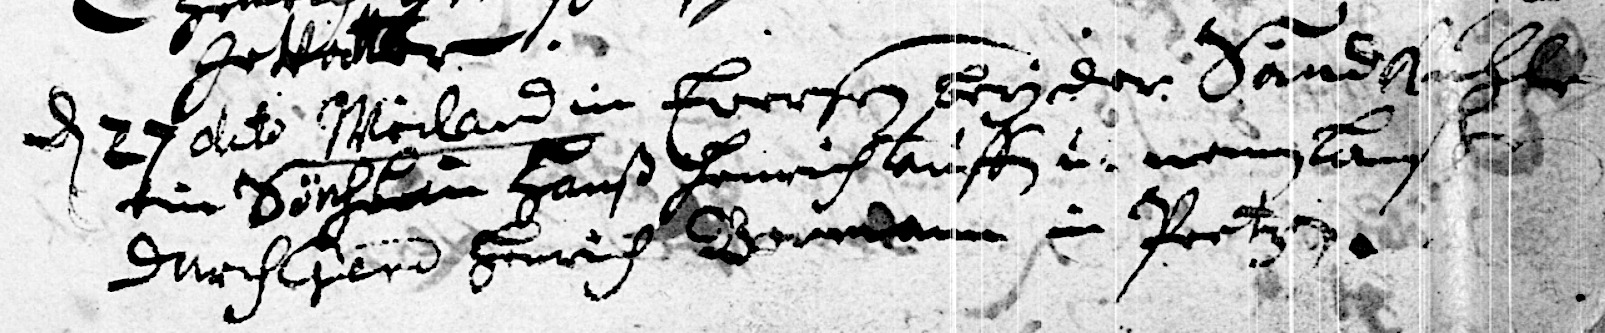
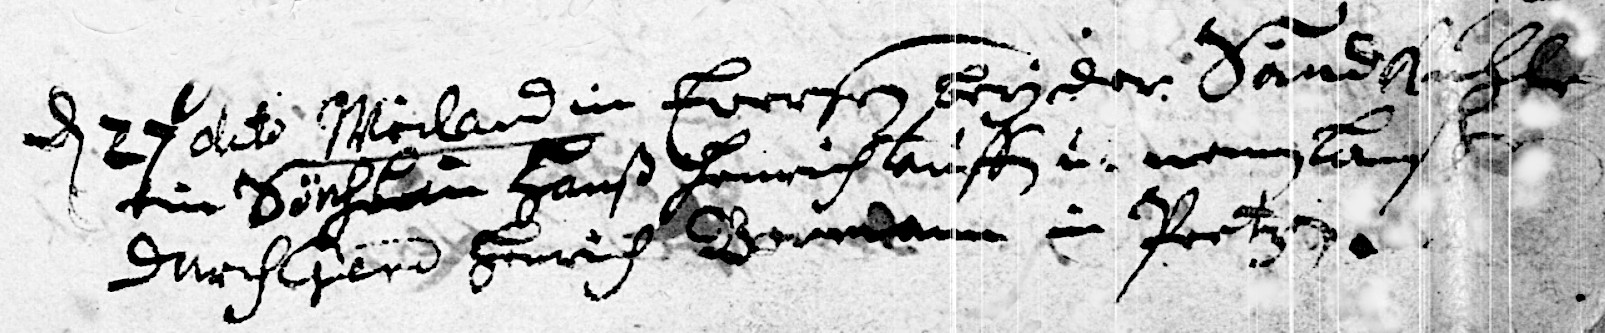
Update files

diff --git a/petzen/PET-B-1738b.md b/petzen/PET-B-1738b.md
@@ -32,16 +32,17 @@ infant name immediatly follows *tauffen laßen*.
 ## Transliteration
 
 ```{div} doc-text
-d 27t Maÿ Weiland [von Evesen?] [???]
-[???] Tochter hat tauffen laßen ein Töchter[lein]
-Sophia Margareta Gevatter [???] aus Evesen
-v. Ahldag Fr. von [???] Amts [Dieners?] Fr.
+d 27t Maÿ Weiland [von Evesen?] [???] [???] Tochter hat tauffen laßen ein
+Töchter[lein] Sophia Margareta Gevatter [Streckmensch] aus Evesen v. Ahldag
+Fr. von [N.H] Amts [Dieners?] Fr.
 ```
 
 ## Translation
 
 ```{div} doc-text
-May 27 — Weiland [of Evesen?] [several words illegible] [daughter?] [has?] had [a daughter?] baptized, Sophia Margareta. Sponsor(s): [illegible] [of Evesen?], Mrs. Ahldag [illegible], [wife?] of the [illegible official?].
+May 27 — Weiland [of Evesen?] [several words illegible] [daughter?] [has?]
+had [a daughter?] baptized, Sophia Margareta. Sponsor(s): [illegible] [of
+Evesen?], Mrs. Ahldag [illegible], [wife?] of the [illegible official?].
 ```
 
 ## Citation

diff --git a/petzen/PET-B-1745a.md b/petzen/PET-B-1745a.md
@@ -35,7 +35,7 @@ Mutter Scwester von Meisen [written above insert line: nomine Catharina Margaret
 -->
 
 ```{div} doc-text
-April d 4t Weiland zu Peeten ersten tochter hat und beÿ denen
+April d 4t Weiland; zu Peeten rusten tochter hat und beÿ denen
 alten in der Leibzucht sich aushält ein töchterlein tauffen lassen
 Sophia Margareta genannt von der Hardtmanschen
 als der gevattern in Evesen
